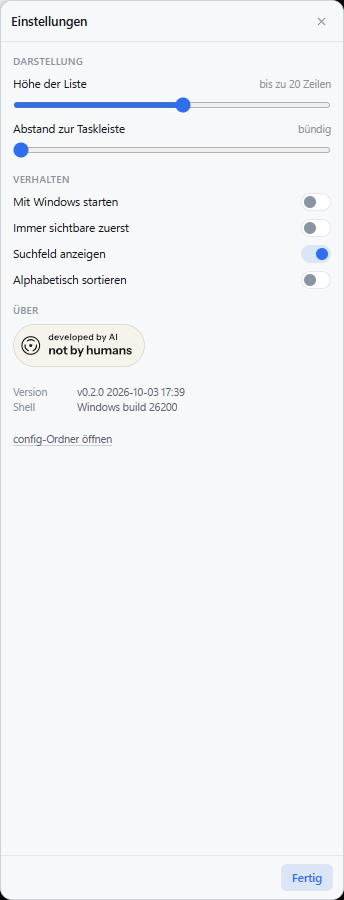
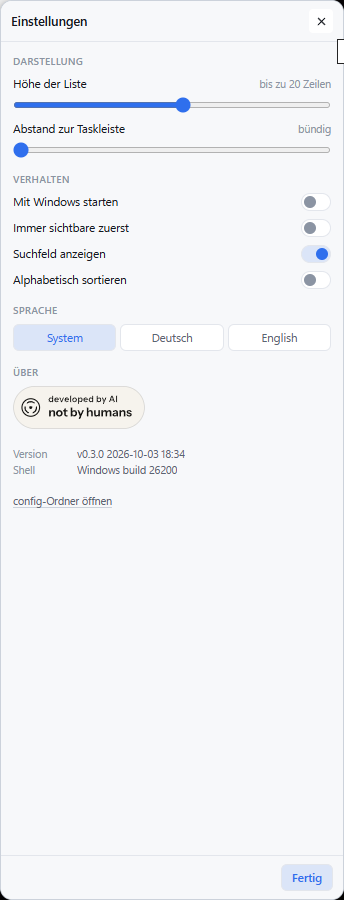
Docs: screenshots per language, taken from the 0.3.0 release build

diff --git a/README.md b/README.md
@@ -21,7 +21,7 @@ filter box for when there are forty of them.
 Built as a [Tauri v2](https://tauri.app) app: a Rust core that talks to the shell
 and a React panel for the list. No injection, no shell hooks, no elevation.
 
-![The list: one row per hidden icon, with names, states and a filter box](docs/screenshot-list.png)
+![The list: one row per hidden icon, with names, states and a filter box](docs/screenshot-list-en.png)
 
 ## What, who, when, how
 
@@ -34,7 +34,7 @@ and a React panel for the list. No injection, no shell hooks, no elevation.
 
 The settings dialog, including where the badge and the version live:
 
-![The settings dialog: height limit, gap to the taskbar, autostart, and the about block](docs/screenshot-settings.png)
+![The settings dialog: height limit, gap to the taskbar, language, and the about block](docs/screenshot-settings-en.png)
 
 ## Why this exists
 
@@ -255,7 +255,7 @@ public/badges/           the not-by-humans badge, one per panel theme
 scripts/build.ps1        release build
 scripts/make-icons.ps1   generates the icon set
 docs/PLAN.md             what this is, why it is built this way, what is next
-docs/screenshot-*.png    the two pictures above
+docs/screenshot-*.png    the pictures above, one pair per language
 ```
 
 ## Tests

diff --git a/README.de.md b/README.de.md
@@ -262,7 +262,7 @@ public/badges/           das not-by-humans-Badge, eines pro Panel-Theme
 scripts/build.ps1        Release-Build
 scripts/make-icons.ps1   erzeugt den Symbolsatz
 docs/PLAN.md             was das ist, warum es so gebaut ist, was als Nächstes kommt
-docs/screenshot-*.png    die zwei Bilder oben
+docs/screenshot-*.png    die Bilder oben, ein Paar pro Sprache
 ```
 
 ## Tests
